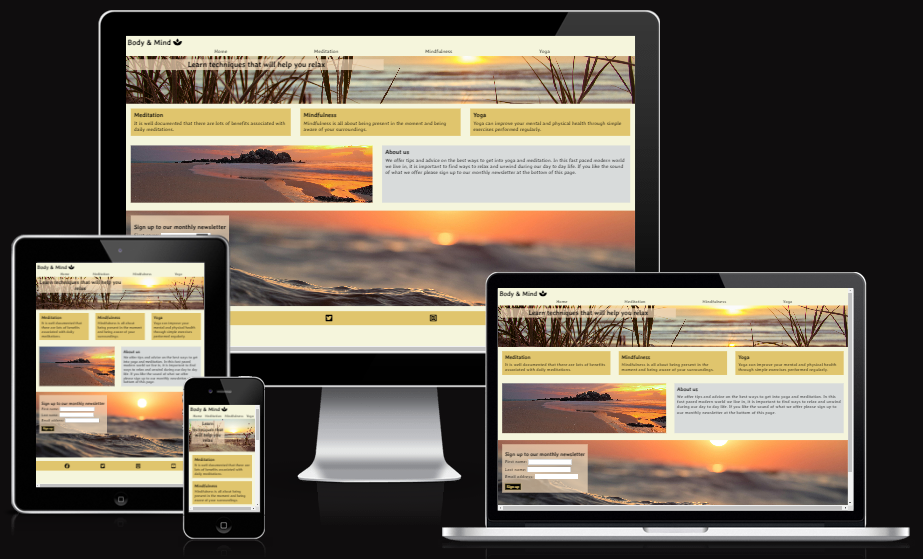
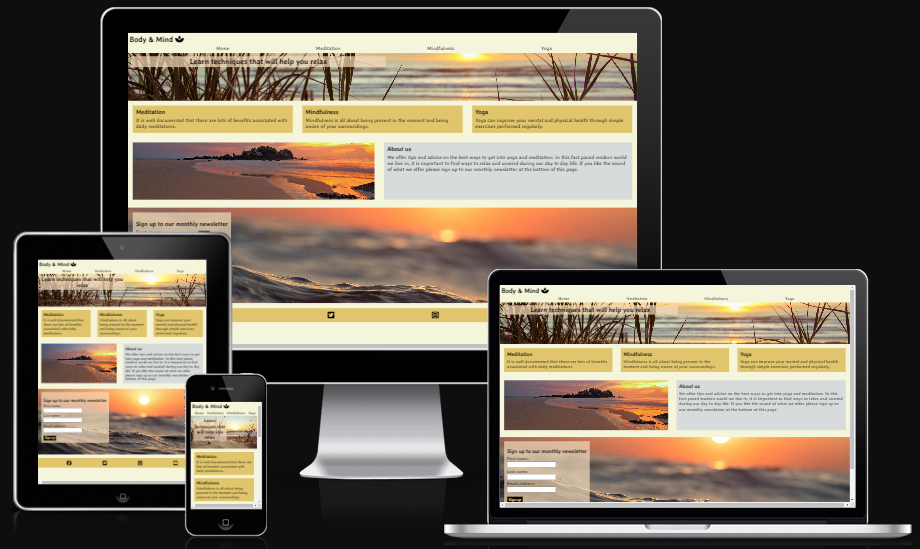
Amended the README file to improve the wording and update an image

Changed region(s): [[0.0, 0.0, 1.0, 0.9909], [0.4261, 0.4335, 0.4565, 0.4645]]

diff --git a/README.md b/README.md
@@ -1,5 +1,5 @@
 # Body & Mind
-Body & Mind is a website designed to help people learn more about meditation, mindfulness and yoga. It is for people who are interested in discovering how it can help them both mentally and physically. It is also for those who would like to get into one of the three areas.
+Body & Mind is a website designed to help people learn more about meditation, mindfulness and yoga. It is for people who are interested in learning techniques to help them relax. It is also for those who would like to get into one of the three areas.
 
 Through Body & Mind people will  be able to decide whether they would like to find out more and by using the website they will be able to find some links to more information alongside an introductory video and a helpful guide on how to get started.
 
@@ -9,75 +9,79 @@ Through Body & Mind people will  be able to decide whether they would like to fi
 
 ### Navigation bar
 
-In the top left of every page is the website name which links back to the homepage. Just below this and across the whole screen is the navigation bar which provides links to all four pages of the website. The name of each link in the navbar makes it clear to the user where they can navigate to next
+In the top left of every page is the website name which links back to the home page. Just below this and across the whole screen is the navigation bar which provides links to all four pages of the website. The name of each link in the navbar makes it clear to the user where they can navigate to next. The links become underlined when the mouse hovers over so users know it is clickable.
 
 ![Navbar](assets/images/navbar.png)
 
 ### Landing page image
 
-This section includes an image of a beach with some text over top. The image is there to be calming and relaxing which will be immediately apparent to the user and let them know what the website is all about. The text over the image on the homepage is there to explain the intention of the website and on the other pages it is there to let the user know which page they are on. 
+This section includes an image of a beach with a header over the top. The image is there to be immediately calming and relaxing, to set the tone for the rest of the website. The header over the image is there to to explain the intention of the website and on the other pages it is there to let the user know which page they are on. There is a light background to the header so it is easier for the user to see the text.
 
 ![Landing page image](assets/images/landing-page-image.png)
 
-### Homepage content
+### Home page content
 
-In the main content of the homepage we have three boxes, one for each of the areas we cover, where we give a brief description of what they are. In addition to the navbar, the headers in theses boxes have a link to the page they are referring to, giving the user the option, should they wish, to navigate to that page and find out more. Below the boxes is another calming image of a beach during a sunset with an about us section. This section is to give the user a more indepth explanation of what we offer. The about us box is a different colour so it stands out from the rest of the website due to the fact that it provides information about us rather than the three areas.
+In the main content of the home page there are three boxes, one for each of the areas covered by the website, which gives a brief description of what they are. In addition to the navbar, the headers in theses boxes have a link to the page they are referring to, giving the user the option, should they wish, to navigate to that page and find out more. Again these headers are underlined when the mouse hovers over them, to make it clear they are clickable. 
 
-![Homepage content](assets/images/homepage-content.png)
+Below the first three boxes is another calming image of a beach during a sunset with an about us section. This section is to give the user a more indepth explanation of what we offer. The about us box is a different colour so it stands out from the rest of the website due to the fact that it provides information about us rather than the three areas.
+
+![Home page content](assets/images/homepage-content.png)
 
 ### Signup section
 
-Here we give the option to the user to find out more about what we offer. I inverted the colours of the signup button so it would stand out more. I also included another calming image which the form section hovers over to carry on our theme. This section is also on every page to give the user to opportunity to signup whenever they would like. 
+Here the website gives the opportunity to sign up to the newsletter to find out more about what we offer. I inverted the colours of the sign up button so it would stand out more to encourage users to take action. I also included another calming image which the form section hovers over to carry on our theme. This section is on every page to give the user the opportunity to sign up whenever they would like. 
 
-![Signup](assets/images/signup.png)
+![Sign up](assets/images/signup.png)
 
 ### Footer
 
-In the footer section we have links to our social media accounts, allowing the user to connect with us and become more involved. This is also on every page allowing the user to easily find our us on social media.
+In the footer section we have links to our social media accounts, allowing the user to connect with us and become more involved. This is also on every page allowing the user to easily find us on social media.
 
 ![Footer](assets/images/footer.png)
 
 ### Meditation page
 
-In the main content section of this page we have a box which explains the benefits associated with meditating. This comes with an embedded video from youtube of a 10 meditation for beginners. After that is a box with a list of techniques people can do to help the user get started with meditation. Then there is an image of someone meditating in a similar colour scheme as to the rest of the website. Finally there is a 'What next?' box which provides links to some companies which have apps to help people with meditation.
+In the main content section of this page we have a box which explains the benefits associated with meditating. This comes with an embedded video from YouTube of a 10 minute meditation walkthrough for beginners. After that is a box with a list of techniques people can do to help them get started with meditation. Then there is an image of someone meditating in a similar colour scheme as to the rest of the website. Finally there is a 'What next?' box which provides links to apps to help people continue with their meditation.
 
 ![Meditation page](assets/images/meditation.png)
 
 ### Mindfulness page
 
-On this page we have the first box which explains what mindfulness is and how it can help. Which is followed by an embedded video from youtube to further explain mindfulness. This is then followed by a list of ways people can practice mindfulness with another calming image afterwards. Finally there is a 'What next?' box which has suggestions for a couple of podcasts people can listen to for more information and guidance.
+The first box on this page explains what mindfulness is and how it can help. This is followed by an embedded video from YouTube to further explain mindfulness. The next box lists ways people can practice mindfulness with another calming image afterwards. Finally there is a 'What next?' box which has suggestions of podcasts people can listen to for more information and guidance.
 
 ![Mindfulness page](assets/images/mindfulness-page.png)
 
 ### Yoga page
 
-On our final page we have a box that talks about the benefits of doing yoga followed by an embedded video of a 10 minute yoga session for beginners giving the user the opportunity to try it out. This is followed by a box talking about the video and the benefits of practicing yoga in the morning. Then there is an image of someone doing yoga in colours that fit the colour theme of the overall website. Lastly there is a 'What next?' box recommending a couple of youtube channels, that post videos of yoga workouts, with links to their channels.
+On our final page we have a box that talks about the benefits of doing yoga followed by an embedded video of a 10 minute yoga session for beginners giving the user the opportunity to try it out. This is followed by a box talking about the video and the benefits of practicing yoga in the morning. Then there is an image of someone doing yoga in colours that fit the colour theme of the overall website. Lastly there is a 'What next?' box recommending a couple of YouTube channels, that post videos of yoga workouts, with links to their channels.
 
 ![Yoga page](assets/images/yoga-page.png)
 
 ### Font, colours and images
 
-I researched fonts that are considered relaxing and calming and found that the best ones seemed to flow naturally with not too many straight lines which led me to find Averia Gruesa Libre on Google fonts and I'm very pleased with how it has turned out.
+I researched fonts that are considered relaxing and calming and found that the best ones seemed to flow naturally with few straight lines which led me to find Averia Gruesa Libre on Google fonts and I'm very pleased with how it has turned out. 
 
-I also found out what colours are considered to be calming and found that, pastel colours and beige would acheive the desired effect. I decided to make the background colour beige to bring about the calming effect and make the text boxes a darker colour so they would stand out but also not detract from the overall effect. 
+The fonts in different sections have been purposefully sized so it is easy for the user to understand the flow of the content. 
+
+I also researched what colours are considered to be calming and found that pastel colours and beige would acheive the desired effect. I decided to make the background colour beige to bring about the calming effect and make the text boxes a darker colour so they would stand out but also not detract from the overall effect. 
 
 Once I had the colour scheme I then purposefully found images on Pexels which related to the content as well as fitted in with the colours I had chosen and again I'm pleased with the outcome.
 
 ## Testing
 
-I have tested this page on Chrome and Safari with no issues. Also on my mobile, laptop and larger screens. The website is responsive and changes layout depending on the screen size. I also tested the form which works as it should.
+I have tested this page on Chrome and Safari with no issues. Also on my mobile, laptop and larger screens. The website is responsive and the layout changes depending on the screen size. I also tested the form which works as it should.
 
 ## Validator testing
 
 ### CSS
 
-No errors were found
+No errors were found.
 
 ### HTML
 
  - For the text over the landing page image I used a 'p' rather than a header which was picked up and has subsequently been fixed. 
  - In one of the text boxes I closed the 'p' after a 'ul' which was also highlighted but I've since corrected my mistake. 
- - Finally I had used the same id across the multiple boxes so as to retain colours and format but they have since been changed to 'class'.
+ - Finally I used the same 'id' across multiple boxes so as to retain the colours and format but have since changed them to 'class'.
 
 ### Accessibility 
 
@@ -100,4 +104,4 @@ The live link is as follows - https://tomh131.github.io/meditation-mindfulness-y
  - The images came from Pexels.
  - The font came from Google fonts.
  - The videos are from YouTube.
- - The social media icons are from Font Awesome.
+ - The title icon and social media icons are from Font Awesome.
